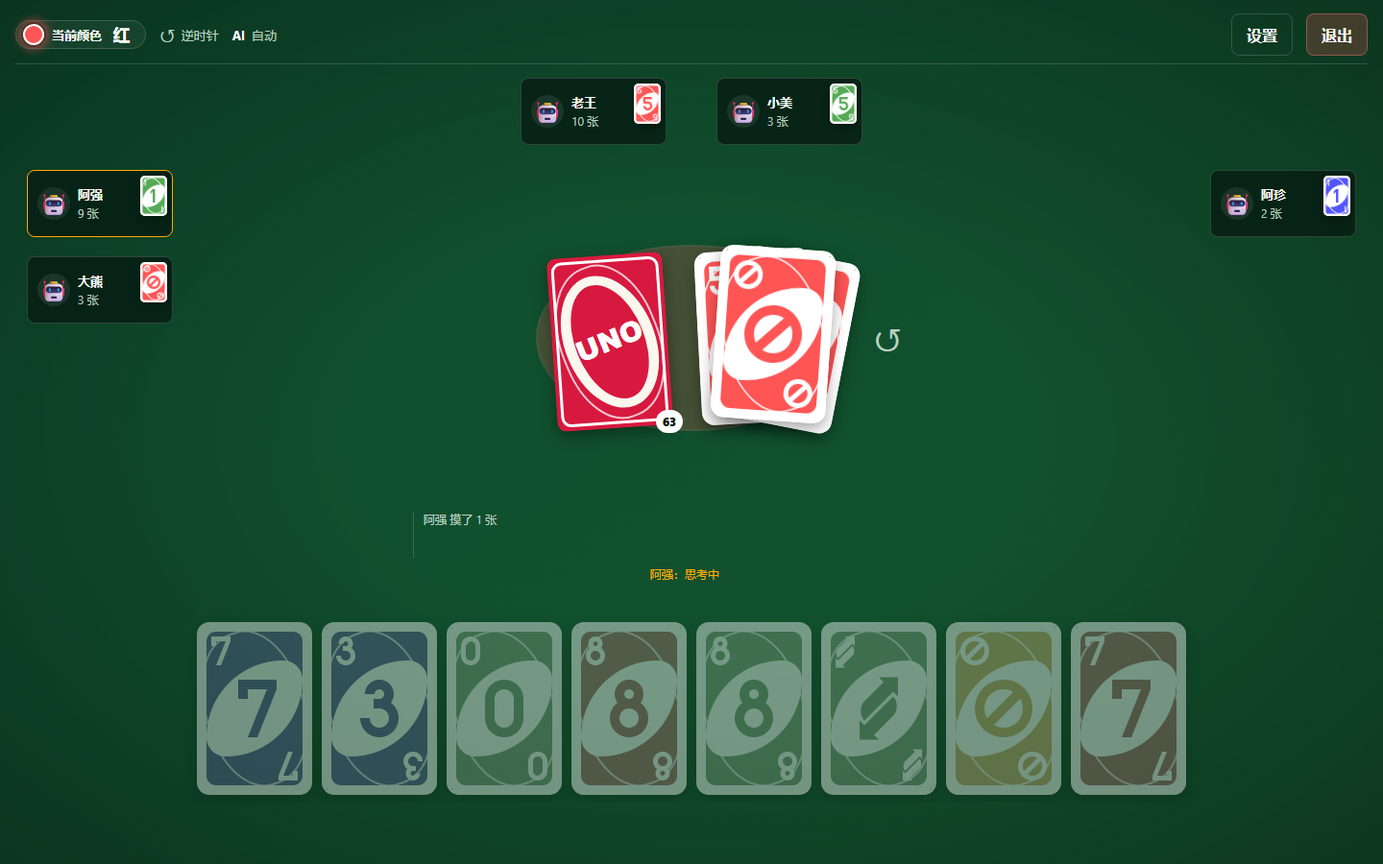
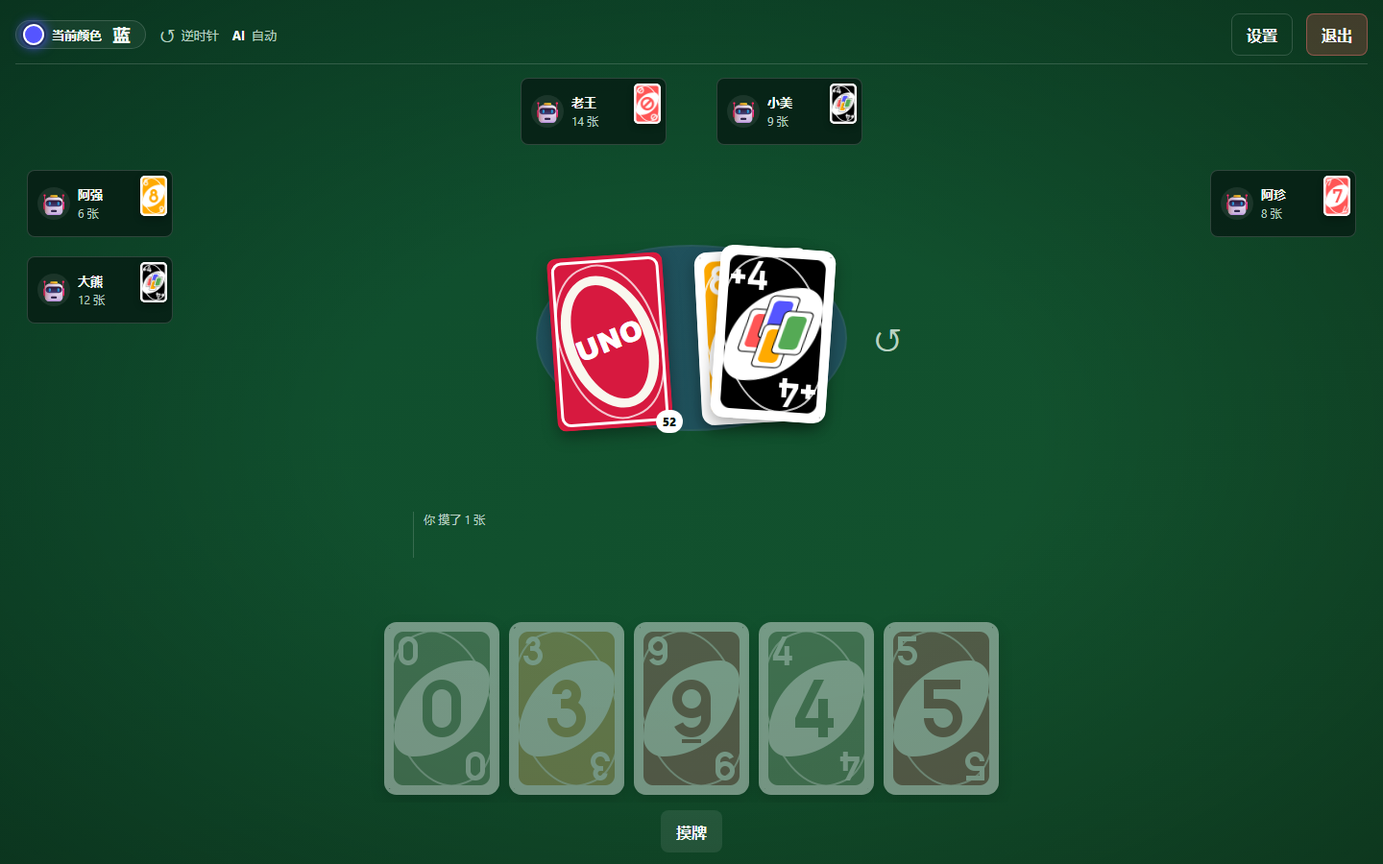
feat(M9-02): 联机多玩家座位框布局与逐视图动画队列

diff --git a/apps/web/js/net/onlineMode.js b/apps/web/js/net/onlineMode.js
@@ -8,6 +8,10 @@
  * - 对局阶段：不再本地 applyAction，改为把 UI 动作上行到服务端，
  *   渲染服务端按座位下发的 GameView（复用现有渲染层与事件动画）；
  * - 断线自动重连（最多 3 次），页面刷新后凭 sessionStorage 静默恢复。
+ *
+ * M9-02：服务端每个权威步骤都会广播一次视图（AI 补位、断线顶替同样如此）。
+ * 客户端把视图按到达顺序排队，逐条「渲染 + 播事件动画」；否则后一条视图的
+ * render 会立刻 cancelEvents，导致 AI 连续行动时只剩最后一步的动效可见。
  */
 import { toEngineAction } from "../vendor/uno-engine.js";
 import { getSettings } from "../state/settings.js";
@@ -25,6 +29,17 @@ let rejoinPending = false;
 let reconnectAttempts = 0;
 let reconnectTimer = null;
 const MAX_RECONNECT_ATTEMPTS = 3;
+
+/** M9-02：服务端视图队列（逐条渲染 + 播动画，保证 AI 连动/代打时每一步都可见） */
+let viewQueue = [];
+let processingView = false;
+let viewGeneration = 0;
+
+function resetViewQueue() {
+  viewGeneration += 1;
+  viewQueue = [];
+  processingView = false;
+}
 
 const $ = (selector) => document.querySelector(selector);
 
@@ -128,6 +143,7 @@ function renderRoom(room) {
 }
 
 function closeSocket() {
+  resetViewQueue();
   if (reconnectTimer) {
     clearTimeout(reconnectTimer);
     reconnectTimer = null;
@@ -161,7 +177,7 @@ function decorate(view) {
   return view;
 }
 
-/** 服务端下发视图：渲染 + 播事件动画（事件已按本座位脱敏） */
+/** 服务端下发视图：排队，逐条渲染 + 播事件动画（事件已按本座位脱敏） */
 function onView(view) {
   if (!inGame) {
     inGame = true;
@@ -169,13 +185,33 @@ function onView(view) {
     document.documentElement.style.setProperty("--uno-window-ms", "4000ms");
     window.UnoApp.setActionHandler(handleOnlineAction);
   }
-  const decorated = decorate(view);
-  window.UnoApp.render(decorated);
-  playEvents(decorated.events || []);
+  viewQueue.push(decorate(view));
+  processViewQueue();
+}
+
+/**
+ * 处理队首视图：渲染后用事件动画的完成回调驱动下一条。
+ * 动画期间（及队列未清空时）拒绝上行动作，避免基于过期画面操作。
+ */
+function processViewQueue() {
+  if (processingView) return;
+  const next = viewQueue.shift();
+  if (!next) return;
+  const generation = viewGeneration;
+  processingView = true;
+  window.UnoApp.render(next);
+  playEvents(next.events || [], () => {
+    if (generation !== viewGeneration) return;
+    processingView = false;
+    // 放到下一轮宏任务，给浏览器一次绘制机会，也避免无事件视图递归过深
+    if (viewQueue.length > 0) window.setTimeout(processViewQueue, 0);
+  });
 }
 
 function handleOnlineAction(action) {
   if (!action || typeof action.type !== "string") return;
+  // 视图还在播放/排队：画面不是最新权威状态，先不接受操作
+  if (processingView || viewQueue.length > 0) return;
   if (action.type === "BACK_TO_LOBBY") {
     exitOnline();
     return;

diff --git a/apps/web/js/ui/players.js b/apps/web/js/ui/players.js
@@ -1,4 +1,5 @@
 import { renderCard } from "./hand.js";
+import { setViewerSeat } from "../state/viewer.js";
 
 /**
  * BUG-04：AI 台词 TTL 到期时只清对应座位的气泡文本。
@@ -25,10 +26,18 @@ export function clearAllLines() {
 export function renderPlayers(view) {
   const root = document.querySelector("#opponents");
   const speechRoot = document.querySelector("#speech-layer");
-  const opponents = view.players.filter((player) => !player.isHuman);
+  // M9-02：以「视角座位」区分自己与对手，而不是 isHuman——联机模式下所有玩家
+  // 在服务端都是 isHuman=true，自己的座位由 view.human.seat 给出。
+  const viewer = view.human?.seat ?? 0;
+  setViewerSeat(viewer);
+  const total = view.players.length;
+  // 对手座位框按「相对视角座位的距离」套用 opponent-seat-N 布局类（单机 viewer=0 时与绝对座位一致），
+  // data-seat 仍保留真实座位号，供动效落点 / 挑战展示 / 台词气泡按座位查找。
+  const relativeSeat = (seat) => (seat - viewer + total) % Math.max(total, 1);
+  const opponents = view.players.filter((player) => player.seat !== viewer);
   root.dataset.count = String(opponents.length);
   root.replaceChildren(...opponents.map((player) => {
-    const node = document.createElement("article"); node.className = `opponent opponent-seat-${player.seat}${player.seat === view.currentSeat ? " is-current" : ""}`; node.dataset.seat = String(player.seat); node.setAttribute("aria-label", `${player.name}，${player.handCount} 张牌`);
+    const node = document.createElement("article"); node.className = `opponent opponent-seat-${relativeSeat(player.seat)}${player.seat === view.currentSeat ? " is-current" : ""}`; node.dataset.seat = String(player.seat); node.setAttribute("aria-label", `${player.name}，${player.handCount} 张牌`);
     const avatar = document.createElement("span"); avatar.className = "avatar"; avatar.textContent = player.avatar;
     const name = document.createElement("strong"); name.className = "opponent-name"; name.textContent = player.name;
     const meta = document.createElement("span"); meta.className = "opponent-meta"; meta.textContent = `${player.handCount} 张${player.saidUno ? " · UNO" : ""}`;

diff --git a/apps/web/js/animation/effects.js b/apps/web/js/animation/effects.js
@@ -1,5 +1,6 @@
 import { cardBack, renderCard } from "../ui/hand.js";
 import { getSettings } from "../state/settings.js";
+import { getViewerSeat } from "../state/viewer.js";
 
 /**
  * M6-01：事件动效（只动画 transform/opacity，纯 CSS/Web Animations，无第三方依赖）。
@@ -43,7 +44,8 @@ function centerOf(node) {
 }
 
 function seatAnchor(seat) {
-  if (Number(seat) === 0) return centerOf(document.querySelector("#hand"));
+  // M9-02：牌飞向「视角座位」= 自己的手牌区（单机恒为 0，联机为服务端分配的座位）
+  if (Number(seat) === getViewerSeat()) return centerOf(document.querySelector("#hand"));
   const node = document.querySelector(`#opponents .opponent[data-seat="${Number(seat)}"]`);
   return node ? centerOf(node) : centerOf(document.querySelector("#table-center"));
 }
@@ -244,7 +246,7 @@ export function applyEventEffect(event) {
       const seat = Number(event.seat);
       const target = seatAnchor(seat);
       const from = drawAnchor();
-      const visible = Math.max(1, Math.min(count, seat === 0 ? 7 : 3));
+      const visible = Math.max(1, Math.min(count, seat === getViewerSeat() ? 7 : 3));
       for (let index = 0; index < visible; index += 1) {
         flyCard(from, target, { faceDown: true, duration: 230, delay: index * 34 });
       }
@@ -266,7 +268,7 @@ export function applyEventEffect(event) {
       const seat = Number(event.seat);
       const target = seatAnchor(seat);
       const from = drawAnchor();
-      const faceUp = seat === 0 && Array.isArray(event.cards) && event.cards.length > 0;
+      const faceUp = seat === getViewerSeat() && Array.isArray(event.cards) && event.cards.length > 0;
       const cards = faceUp ? event.cards : null;
       const visible = Math.max(1, Math.min(count, faceUp ? 6 : 5));
       for (let index = 0; index < visible; index += 1) {

diff --git a/apps/web/js/animation/queue.js b/apps/web/js/animation/queue.js
@@ -1,6 +1,7 @@
 import { applyEventEffect, cleanupEffects, motionFactor } from "./effects.js";
 import { playSfxForEvent } from "../audio/sfx.js";
 import { hideChallengeHand, showChallengeHand, showOpponentLookedNotice } from "../ui/challengeReveal.js";
+import { getViewerSeat } from "../state/viewer.js";
 
 /** M5-01：挑战成功展示对方手牌的时长（2~3 秒，展示期间保持输入锁） */
 const CHALLENGE_REVEAL_MS = 2600;
@@ -23,9 +24,9 @@ function isChallengeHandEvent(event) {
   return event?.type === "CHALLENGE_SUCCESS" && Array.isArray(event.hand);
 }
 
-/** AI 挑战人类成功：只提示，不展示牌面（M5-01） */
+/** AI（或联机中的其他玩家）挑战「我」成功：只提示，不展示牌面（M5-01；M9-02 改为按视角座位判断） */
 function isAiLookedEvent(event) {
-  return event?.type === "CHALLENGE_SUCCESS" && !Array.isArray(event.hand) && event.target === 0;
+  return event?.type === "CHALLENGE_SUCCESS" && !Array.isArray(event.hand) && event.target === getViewerSeat();
 }
 
 /** 清理当前播放的定时器与临时禁用状态（不触发完成回调） */

diff --git a/apps/web/js/audio/sfx.js b/apps/web/js/audio/sfx.js
@@ -1,4 +1,5 @@
 import { getSettings } from "../state/settings.js";
+import { getViewerSeat } from "../state/viewer.js";
 
 /**
  * M6-02：音效（Web Audio 合成，零外部音频资源、无第三方依赖）。
@@ -211,7 +212,7 @@ export function playSfxForEvent(event) {
       return playSfx("out");
     case "ROUND_END":
       if (event.winnerSeat === null || event.winnerSeat === undefined) return playSfx("drawGame");
-      return playSfx(Number(event.winnerSeat) === 0 ? "win" : "lose");
+      return playSfx(Number(event.winnerSeat) === getViewerSeat() ? "win" : "lose");
     case "PILE_RESHUFFLE":
       return playSfx("shuffle");
     default:

diff --git a/apps/web/js/state/viewer.js b/apps/web/js/state/viewer.js
@@ -1,0 +1,17 @@
+/**
+ * M9-02：当前客户端的「视角座位」。
+ *
+ * 单机模式人类固定 0 号位，此前 UI/动效层多处硬编码 seat === 0 表示「我」；
+ * 联机模式座位由服务端分配（可以是任意座位），因此集中在这里维护：
+ * 每次渲染游戏画面时由 ui/players.js 用 view.human.seat 更新，
+ * 动效（飞牌落点/正面朝上）、音效（胜/负）、挑战提示统一从这里读取。
+ */
+let viewerSeat = 0;
+
+export function setViewerSeat(seat) {
+  viewerSeat = Number.isInteger(seat) && seat >= 0 ? seat : 0;
+}
+
+export function getViewerSeat() {
+  return viewerSeat;
+}

diff --git a/apps/web/js/ui/challengeReveal.js b/apps/web/js/ui/challengeReveal.js
@@ -1,4 +1,5 @@
 import { renderCard } from "./hand.js";
+import { getViewerSeat } from "../state/viewer.js";
 
 /**
  * M5-01：挑战时手牌展示。
@@ -17,7 +18,7 @@ function seatName(seat) {
   const opponent = document.querySelector(`#opponents .opponent[data-seat="${seat}"] .opponent-name`);
   const text = opponent?.textContent?.trim() || "";
   if (text) return text;
-  return seat === 0 ? "你" : "对手";
+  return seat === getViewerSeat() ? "你" : "对手";
 }
 
 /** 显示人类挑战 AI 成功后的对方手牌（覆盖牌桌，不可交互） */

diff --git a/review-assets/ui-m32-verify.md b/review-assets/ui-m32-verify.md
@@ -1,6 +1,6 @@
 # 浏览器验收报告（自动生成；M3-3/M4 回归 + M5 规则边界）
 
-> 时间：2026-10-20T05:15:57.837Z ｜ 入口：http://localhost:3000 ｜ 浏览器：Chrome/155.0.8059.82
+> 时间：2026-10-20T05:59:43.850Z ｜ 入口：http://localhost:3000 ｜ 浏览器：Chrome/155.0.8059.82
 > 结果：**103 / 103 通过**
 
 ## 检查项
@@ -15,45 +15,45 @@
 | ✅ | 抽牌堆计数在 HUD 正确显示（文本与 data-count 一致） | {"text":"79","dataCount":"79"} |
 | ✅ | 1440 宽无横向溢出 | {"scroll":1440,"client":1440} |
 | ✅ | 手牌区不再显示「你的手牌 / N 张」 | {"heading":false,"count":false,"text":""} |
-| ✅ | 操作栏不再有出牌按钮（出牌改为点击手牌） | [{"text":"放弃叠牌（摸 2 张）","disabled":false}] |
-| ✅ | 正常回合无冗余状态提示文字 | hint=上家出了叠牌，选择继续叠加或摸 2 张 |
+| ✅ | 操作栏不再有出牌按钮（出牌改为点击手牌） | [{"text":"摸牌","disabled":false}] |
+| ✅ | 正常回合无冗余状态提示文字 | hint= |
 | ✅ | 当前颜色明显放大（色点 ≥20px、文字 ≥17px、不溢出） | {"dotW":22,"dotH":22,"labelFont":18,"labelRect":{"top":24,"right":139},"viewportW":1440,"topBarOverflow":false,"pageOverflow":false} |
-| ✅ | 第 1 局完整打完并进入结算（🏆 阿强 获胜） | ["你8 张","老王UNO1 张","小美3 张","阿强0 张 · 出完手牌"] |
+| ✅ | 第 1 局完整打完并进入结算（🏆 小美 获胜） | ["你7 张","老王18 张","小美0 张 · 出完手牌","阿强7 张"] |
 | ✅ | 第 1 局：再来一局 / 退出回大厅可用 |  |
-| ✅ | 第 2 局完整打完并进入结算（🏆 老王 获胜） | ["你9 张","老王0 张 · 出完手牌","小美3 张","阿强7 张"] |
+| ✅ | 第 2 局完整打完并进入结算（🏆 你 获胜） | ["你0 张 · 出完手牌","老王3 张","小美5 张","阿强11 张"] |
 | ✅ | 第 2 局：再来一局 / 退出回大厅可用 |  |
-| ✅ | 第 3 局完整打完并进入结算（🏆 老王 获胜） | ["你8 张","老王0 张 · 出完手牌"] |
+| ✅ | 第 3 局完整打完并进入结算（🏆 老王 获胜） | ["你13 张","老王0 张 · 出完手牌"] |
 | ✅ | 第 3 局：再来一局 / 退出回大厅可用 |  |
-| ✅ | 本地战绩：打完 3 局后写入 uno:stats（对局 +3、获胜数合法） | {"before":{},"after":{"games":3,"wins":0}} |
-| ✅ | 本地战绩弹窗：显示已记录的对局/获胜数 | ×本地战绩对局 3 · 获胜 0知道了 |
+| ✅ | 本地战绩：打完 3 局后写入 uno:stats（对局 +3、获胜数合法） | {"before":{},"after":{"games":3,"wins":1}} |
+| ✅ | 本地战绩弹窗：显示已记录的对局/获胜数 | ×本地战绩对局 3 · 获胜 1知道了 |
 | ✅ | 6 人：真实对局 AI 座位数正确（5 个） | seats=5 |
 | ✅ | 6 人：座位全部在视口内、互不遮挡 | {"inside":true,"overlaps":[]} |
 | ✅ | 6 人：座位不压手牌区、页面无横向溢出/竖向滚动 | {"overlapHand":[],"overflow":{"scrollW":1440,"clientW":1440,"scrollH":900,"clientH":900}} |
-| ✅ | 6 人：抽牌堆计数与 HUD 一致 | count=50 hud=50 |
-| ✅ | 6 人：轮转正常（自动行动座位 ≥2 个） | {"steps":40,"seats":[5,3,1,2,4,0],"elapsed":2671,"screen":"game"} |
+| ✅ | 6 人：抽牌堆计数与 HUD 一致 | count=65 hud=65 |
+| ✅ | 6 人：轮转正常（自动行动座位 ≥2 个） | {"steps":40,"seats":[1,4,5,2,0,3],"elapsed":2489,"screen":"game"} |
 | ✅ | 10 人：真实对局 AI 座位数正确（9 个） | seats=9 |
 | ✅ | 10 人：座位全部在视口内、互不遮挡 | {"inside":true,"overlaps":[]} |
 | ✅ | 10 人：座位不压手牌区、页面无横向溢出/竖向滚动 | {"overlapHand":[],"overflow":{"scrollW":1440,"clientW":1440,"scrollH":900,"clientH":900}} |
-| ✅ | 10 人：抽牌堆计数与 HUD 一致 | count=29 hud=29 |
-| ✅ | 10 人：轮转正常（自动行动座位 ≥2 个） | {"steps":40,"seats":[1,3,6,8,2,0,9,7,5,4],"elapsed":2653,"screen":"game"} |
-| ✅ | 10 人 @1024：座位全部在视口内、互不遮挡、无横向溢出 | {"seats":9,"inside":true,"overlaps":[],"overflow":{"scrollW":1024,"clientW":1024,"scrollH":768,"clientH":768}} |
-| ✅ | 结算页已取消分数计算与展示（无「趣味分数 / 本局得分」文字） | [["你8 张","老王UNO1 张","小美3 张","阿强0 张 · 出完手牌"],["你9 张","老王0 张 · 出完手牌","小美3 张","阿强7 张"],["你8 张","老王0 张 · 出完手牌"]] |
+| ✅ | 10 人：抽牌堆计数与 HUD 一致 | count=35 hud=35 |
+| ✅ | 10 人：轮转正常（自动行动座位 ≥2 个） | {"steps":26,"seats":[0,1,6,8,4,5,7,3,9,2],"elapsed":1625,"screen":"result"} |
+| ✅ | 10 人 @1024：座位全部在视口内、互不遮挡、无横向溢出 | {"seats":9,"inside":true,"overlaps":[],"overflow":{"scrollW":1024,"clientW":1024,"scrollH":769,"clientH":768}} |
+| ✅ | 结算页已取消分数计算与展示（无「趣味分数 / 本局得分」文字） | [["你7 张","老王18 张","小美0 张 · 出完手牌","阿强7 张"],["你0 张 · 出完手牌","老王3 张","小美5 张","阿强11 张"],["你13 张","老王0 张 · 出完手牌"]] |
 | ✅ | 结算页图表齐全（每位玩家操作 / 全体动作构成 / 剩余手牌构成 + 总览数字） | [{"charts":3,"ops":4,"hands":4,"summary":6},{"charts":3,"ops":4,"hands":4,"summary":6},{"charts":3,"ops":2,"hands":2,"summary":6}] |
-| ✅ | 每位玩家操作统计与总览合计一致（出牌/摸牌/叠牌/喊UNO/挑战） | [{"summary":{"动作":76,"出牌":51,"摸牌":35,"叠牌":6,"喊 UNO":3,"挑战":0},"players":[{"seat":0,"metrics":{"plays":11,"draws":12,"stackPlays":2,"unoCalls":0,"challenges":0}},{"seat":1,"metrics":{"plays":12,"draws":6,"stackPlays":1,"unoCalls":2,"challenges":0}},{"seat":2,"metrics":{"plays":15,"draws":11,"stackPlays":2,"unoCalls":0,"challenges":0}},{"seat":3,"metrics":{"plays":13,"draws":6,"stackPlays":1,"unoCalls":1,"challenges":0}}]},{"summary":{"动作":46,"出牌":31,"摸牌":22,"叠牌":4,"喊 UNO":1,"挑战":0},"players":[{"seat":0,"metrics":{"plays":8,"draws":10,"stackPlays":1,"unoCalls":0,"challenges":0}},{"seat":1,"metrics":{"plays":9,"draws":2,"stackPlays":2,"unoCalls":1,"challenges":0}},{"seat":2,"metrics":{"plays":8,"draws":4,"stackPlays":1,"unoCalls":0,"challenges":0}},{"seat":3,"metrics":{"plays":6,"draws":6,"stackPlays":0,"unoCalls":0,"challenges":0}}]},{"summary":{"动作":137,"出牌":82,"摸牌":76,"叠牌":12,"喊 UNO":2,"挑战":1},"players":[{"seat":0,"metrics":{"plays":46,"draws":47,"stackPlays":8,"unoCalls":0,"challenges":0}},{"seat":1,"metrics":{"plays":36,"draws":29,"stackPlays":4,"unoCalls":2,"challenges":1}}]}] |
-| ✅ | 全体操作构成环形图数据自洽（各部分之和 = 五项操作合计） | [{"plays":51,"draws":35,"stackPlays":6,"unoCalls":3,"challenges":0},{"plays":31,"draws":22,"stackPlays":4,"unoCalls":1,"challenges":0},{"plays":82,"draws":76,"stackPlays":12,"unoCalls":2,"challenges":1}] |
-| ✅ | 剩余手牌构成图表与结算行剩余张数一致 | [{"rows":[{"seat":0,"cards":8,"shownCount":8,"isWinnerRow":false,"text":"你8 张"},{"seat":1,"cards":1,"shownCount":1,"isWinnerRow":false,"text":"老王UNO1 张"},{"seat":2,"cards":3,"shownCount":3,"isWinnerRow":false,"text":"小美3 张"},{"seat":3,"cards":0,"shownCount":0,"isWinnerRow":true,"text":"阿强0 张 · 出完手牌"}],"hands":[{"seat":0,"colors":{"red":3,"yellow":0,"green":2,"blue":3,"wild":0}},{"seat":1,"colors":{"red":0,"yellow":0,"green":1,"blue":0,"wild":0}},{"seat":2,"colors":{"red":0,"yellow":0,"green":2,"blue":1,"wild":0}},{"seat":3,"colors":{"red":0,"yellow":0,"green":0,"blue":0,"wild":0}}]},{"rows":[{"seat":0,"cards":9,"shownCount":9,"isWinnerRow":false,"text":"你9 张"},{"seat":1,"cards":0,"shownCount":0,"isWinnerRow":true,"text":"老王0 张 · 出完手牌"},{"seat":2,"cards":3,"shownCount":3,"isWinnerRow":false,"text":"小美3 张"},{"seat":3,"cards":7,"shownCount":7,"isWinnerRow":false,"text":"阿强7 张"}],"hands":[{"seat":0,"colors":{"red":3,"yellow":3,"green":0,"blue":3,"wild":0}},{"seat":1,"colors":{"red":0,"yellow":0,"green":0,"blue":0,"wild":0}},{"seat":2,"colors":{"red":1,"yellow":2,"green":0,"blue":0,"wild":0}},{"seat":3,"colors":{"red":1,"yellow":2,"green":1,"blue":3,"wild":0}}]},{"rows":[{"seat":0,"cards":8,"shownCount":8,"isWinnerRow":false,"text":"你8 张"},{"seat":1,"cards":0,"shownCount":0,"isWinnerRow":true,"text":"老王0 张 · 出完手牌"}],"hands":[{"seat":0,"colors":{"red":3,"yellow":1,"green":3,"blue":1,"wild":0}},{"seat":1,"colors":{"red":0,"yellow":0,"green":0,"blue":0,"wild":0}}]}] |
-| ✅ | 结算页赢家行标注「出完手牌 / 手牌最少获胜」 | [["你8 张","老王UNO1 张","小美3 张","阿强0 张 · 出完手牌"],["你9 张","老王0 张 · 出完手牌","小美3 张","阿强7 张"],["你8 张","老王0 张 · 出完手牌"]] |
-| ✅ | 出牌通过点击手牌完成（操作栏无出牌按钮） | cardClicks=65 |
+| ✅ | 每位玩家操作统计与总览合计一致（出牌/摸牌/叠牌/喊UNO/挑战） | [{"summary":{"动作":90,"出牌":51,"摸牌":55,"叠牌":8,"喊 UNO":4,"挑战":2},"players":[{"seat":0,"metrics":{"plays":15,"draws":15,"stackPlays":2,"unoCalls":1,"challenges":0}},{"seat":1,"metrics":{"plays":12,"draws":23,"stackPlays":1,"unoCalls":0,"challenges":1}},{"seat":2,"metrics":{"plays":14,"draws":7,"stackPlays":4,"unoCalls":3,"challenges":0}},{"seat":3,"metrics":{"plays":10,"draws":10,"stackPlays":1,"unoCalls":0,"challenges":1}}]},{"summary":{"动作":465,"出牌":274,"摸牌":265,"叠牌":38,"喊 UNO":7,"挑战":5},"players":[{"seat":0,"metrics":{"plays":78,"draws":71,"stackPlays":12,"unoCalls":2,"challenges":0}},{"seat":1,"metrics":{"plays":67,"draws":63,"stackPlays":5,"unoCalls":2,"challenges":3}},{"seat":2,"metrics":{"plays":70,"draws":68,"stackPlays":12,"unoCalls":2,"challenges":0}},{"seat":3,"metrics":{"plays":59,"draws":63,"stackPlays":9,"unoCalls":1,"challenges":2}}]},{"summary":{"动作":81,"出牌":47,"摸牌":46,"叠牌":6,"喊 UNO":1,"挑战":1},"players":[{"seat":0,"metrics":{"plays":23,"draws":29,"stackPlays":2,"unoCalls":0,"challenges":1}},{"seat":1,"metrics":{"plays":24,"draws":17,"stackPlays":4,"unoCalls":1,"challenges":0}}]}] |
+| ✅ | 全体操作构成环形图数据自洽（各部分之和 = 五项操作合计） | [{"plays":51,"draws":55,"stackPlays":8,"unoCalls":4,"challenges":2},{"plays":274,"draws":265,"stackPlays":38,"unoCalls":7,"challenges":5},{"plays":47,"draws":46,"stackPlays":6,"unoCalls":1,"challenges":1}] |
+| ✅ | 剩余手牌构成图表与结算行剩余张数一致 | [{"rows":[{"seat":0,"cards":7,"shownCount":7,"isWinnerRow":false,"text":"你7 张"},{"seat":1,"cards":18,"shownCount":18,"isWinnerRow":false,"text":"老王18 张"},{"seat":2,"cards":0,"shownCount":0,"isWinnerRow":true,"text":"小美0 张 · 出完手牌"},{"seat":3,"cards":7,"shownCount":7,"isWinnerRow":false,"text":"阿强7 张"}],"hands":[{"seat":0,"colors":{"red":3,"yellow":0,"green":0,"blue":4,"wild":0}},{"seat":1,"colors":{"red":3,"yellow":7,"green":4,"blue":4,"wild":0}},{"seat":2,"colors":{"red":0,"yellow":0,"green":0,"blue":0,"wild":0}},{"seat":3,"colors":{"red":2,"yellow":1,"green":2,"blue":2,"wild":0}}]},{"rows":[{"seat":0,"cards":0,"shownCount":0,"isWinnerRow":true,"text":"你0 张 · 出完手牌"},{"seat":1,"cards":3,"shownCount":3,"isWinnerRow":false,"text":"老王3 张"},{"seat":2,"cards":5,"shownCount":5,"isWinnerRow":false,"text":"小美5 张"},{"seat":3,"cards":11,"shownCount":11,"isWinnerRow":false,"text":"阿强11 张"}],"hands":[{"seat":0,"colors":{"red":0,"yellow":0,"green":0,"blue":0,"wild":0}},{"seat":1,"colors":{"red":1,"yellow":2,"green":0,"blue":0,"wild":0}},{"seat":2,"colors":{"red":3,"yellow":0,"green":0,"blue":2,"wild":0}},{"seat":3,"colors":{"red":2,"yellow":3,"green":2,"blue":4,"wild":0}}]},{"rows":[{"seat":0,"cards":13,"shownCount":13,"isWinnerRow":false,"text":"你13 张"},{"seat":1,"cards":0,"shownCount":0,"isWinnerRow":true,"text":"老王0 张 · 出完手牌"}],"hands":[{"seat":0,"colors":{"red":2,"yellow":2,"green":6,"blue":3,"wild":0}},{"seat":1,"colors":{"red":0,"yellow":0,"green":0,"blue":0,"wild":0}}]}] |
+| ✅ | 结算页赢家行标注「出完手牌 / 手牌最少获胜」 | [["你7 张","老王18 张","小美0 张 · 出完手牌","阿强7 张"],["你0 张 · 出完手牌","老王3 张","小美5 张","阿强11 张"],["你13 张","老王0 张 · 出完手牌"]] |
+| ✅ | 出牌通过点击手牌完成（操作栏无出牌按钮） | cardClicks=116 |
 | ✅ | 摸牌按钮文案为「摸牌」（BUG-01 新规则：摸到可出为止） | sawDrawLabel=true |
-| ✅ | 引擎事件覆盖：出牌/摸牌/回合结束 | {"DEAL":46,"START_CARD":9,"PLAY":347,"REVERSE":37,"STACK_PUSH":57,"STACK_RESOLVE":26,"DRAW":184,"COLOR_SET":37,"SKIP":35,"UNO_CALLED":8,"PLAYER_OUT":3,"ROUND_END":3,"CHALLENGE_SUCCESS":4,"PILE_RESHUFFLE":3,"CHALLENGE_FAIL":4} |
-| ✅ | 引擎事件包含叠牌/挑战/UNO 路径（随机对局统计） | {"DEAL":46,"START_CARD":9,"PLAY":347,"REVERSE":37,"STACK_PUSH":57,"STACK_RESOLVE":26,"DRAW":184,"COLOR_SET":37,"SKIP":35,"UNO_CALLED":8,"PLAYER_OUT":3,"ROUND_END":3,"CHALLENGE_SUCCESS":4,"PILE_RESHUFFLE":3,"CHALLENGE_FAIL":4} |
+| ✅ | 引擎事件覆盖：出牌/摸牌/回合结束 | {"DEAL":46,"START_CARD":9,"PLAY":503,"REVERSE":38,"SKIP":52,"DRAW":323,"COLOR_SET":56,"STACK_PUSH":78,"STACK_RESOLVE":35,"UNO_CALLED":14,"CHALLENGE_FAIL":10,"PLAYER_OUT":4,"ROUND_END":4,"CHALLENGE_SUCCESS":3,"PILE_RESHUFFLE":5} |
+| ✅ | 引擎事件包含叠牌/挑战/UNO 路径（随机对局统计） | {"DEAL":46,"START_CARD":9,"PLAY":503,"REVERSE":38,"SKIP":52,"DRAW":323,"COLOR_SET":56,"STACK_PUSH":78,"STACK_RESOLVE":35,"UNO_CALLED":14,"CHALLENGE_FAIL":10,"PLAYER_OUT":4,"ROUND_END":4,"CHALLENGE_SUCCESS":3,"PILE_RESHUFFLE":5} |
 | ✅ | 引擎模式：事件播放期间出现 aria-busy 输入锁 | busy 记录 13 次 |
 | ✅ | 引擎模式：动画期间操作按钮被禁用 | {"actionDisabled":0,"handDisabled":7,"busyAttr":"true"} |
 | ✅ | 引擎模式：AI 回合显示「思考中」气泡 | thinking 出现动画名=dots |
 | ✅ | 引擎模式：动画结束后 aria-busy 解除 |  |
 | ✅ | M4 智谱在线成功：状态栏显示「智谱」 | indicator=智谱 |
-| ✅ | M4 智谱台词：AI 气泡展示 LLM line | line=小美：“看我的” |
-| ✅ | AI 台词只短暂展示：TTL/换人后自动消失（不跨回合残留） | line=小美：“看我的” clearAfter=5492ms |
+| ✅ | M4 智谱台词：AI 气泡展示 LLM line | line=阿强：“看我的” |
+| ✅ | AI 台词只短暂展示：TTL/换人后自动消失（不跨回合残留） | line=阿强：“看我的” clearAfter=3953ms |
 | ✅ | 回大厅后 AI 台词清空（不留对话/不跨局残留） | [] |
 | ✅ | M4 智谱失败自动降级：状态栏显示「本地·降级」+ 提示 toast | degradeSeen=true toast=智谱免费模型繁忙，已自动降级本地 AI |
 | ✅ | M4 降级后本地 AI 继续行动（对局不中断） | eventFeedChanged=true |
@@ -61,23 +61,23 @@
 | ✅ | mock 牌桌：手牌区无「你的手牌 / N 张」 | {"heading":false,"count":false,"text":""} |
 | ✅ | mock 牌桌：操作栏只剩功能按钮（无出牌按钮） | [{"text":"摸牌","disabled":false}] |
 | ✅ | mock 牌桌：正常回合无冗余提示文字 | hint= |
-| ✅ | 事件队列逐条播放（5 事件 = 200ms/条基础 + 动效时长） | elapsed=1358ms |
+| ✅ | 事件队列逐条播放（5 事件 = 200ms/条基础 + 动效时长） | elapsed=1345ms |
 | ✅ | 事件队列期间 aria-busy=true 且操作按钮禁用 | {"busy":true,"disabled":1} |
 | ✅ | 事件队列结束后 aria-busy / aria-disabled 清理 | {"busy":null,"actionBarDisabled":null} |
-| ✅ | 事件动效：飞牌/横幅等临时元素由动效层创建（至少 2 个同时动画） | {"maxCards":2,"maxLayer":2,"lastEffect":"PILE_RESHUFFLE","elapsed":2066,"layer":0,"busy":null} |
+| ✅ | 事件动效：飞牌/横幅等临时元素由动效层创建（至少 2 个同时动画） | {"maxCards":2,"maxLayer":2,"lastEffect":"PILE_RESHUFFLE","elapsed":2054,"layer":0,"busy":null} |
 | ✅ | 事件动效：队列结束后动效层清理干净、输入锁解除 | {"layer":0,"busy":null} |
-| ✅ | 事件动效：6 个事件总时长合理（约 0.6~3s） | elapsed=2066ms |
+| ✅ | 事件动效：6 个事件总时长合理（约 0.6~3s） | elapsed=2054ms |
 | ✅ | dev 工具条「重播动画」触发动效（mock 局面） | {"layer":1,"lastEffect":"PLAY"} |
 | ✅ | 结算彩带：获胜后全屏彩带出现（≥10 个同屏）且从屏幕顶部开始飘落 | {"count":24,"max":24,"minTop":-24} |
 | ✅ | 结算彩带：事件队列结束后彩带继续自然飘落（不被提前清空） | count=24 |
 | ✅ | 结算彩带：完整飘到屏幕底部后自动清理 | count=0 |
-| ✅ | reduced-motion 下跳过动画与事件动效（<100ms 完成） | elapsed=1ms |
+| ✅ | reduced-motion 下跳过动画与事件动效（<100ms 完成） | elapsed=0ms |
 | ✅ | 设置关闭动画后跳过动画与事件动效（<100ms） | elapsed=1ms |
 | ✅ | 音效：音效开启时事件触发合成音效（3 个事件 ≥3 次） | {"before":0,"after":3,"audio":"running","soundVolume":0.7} |
 | ✅ | 音效：首次用户交互后 AudioContext 可用（autoplay 解锁） | audio=running |
 | ✅ | 音效：设置关闭后不再播放 | {"before":0,"after":0} |
 | ✅ | 挑战手牌展示：人类挑战 AI 成功时展示对方完整手牌 | {"count":5,"title":"挑战成功：查看 老王 的手牌"} |
-| ✅ | 挑战手牌展示：约 2~3 秒后自动消失 | {"elapsed":2600,"visible":false} |
+| ✅ | 挑战手牌展示：约 2~3 秒后自动消失 | {"elapsed":2607,"visible":false} |
 | ✅ | 挑战手牌展示：展示期间输入锁定（aria-busy） | busy=true |
 | ✅ | 挑战：AI 挑战人类只提示「查看了你的手牌」且不展示手牌 | {"toast":"老王 查看了你的手牌","overlayHidden":true} |
 | ✅ | 设置页：规则 4 项 + 音效音量/动画速度可配置且默认值正确 | {"twoPlayerRules":true,"unoPenalty":"2","deckExhaustion":"reshuffle","startCardRule":"classic","soundVolume":"0.7","animationSpeed":"normal","hasRulesHeading":true} |
@@ -115,26 +115,26 @@
 
 | 事件 | 次数 |
 |------|------|
-| PLAY | 347 |
-| DRAW | 184 |
-| STACK_PUSH | 57 |
+| PLAY | 503 |
+| DRAW | 323 |
+| STACK_PUSH | 78 |
+| COLOR_SET | 56 |
+| SKIP | 52 |
 | DEAL | 48 |
-| REVERSE | 37 |
-| COLOR_SET | 37 |
-| SKIP | 35 |
-| STACK_RESOLVE | 26 |
+| REVERSE | 38 |
+| STACK_RESOLVE | 35 |
+| UNO_CALLED | 14 |
 | START_CARD | 10 |
-| UNO_CALLED | 8 |
-| CHALLENGE_SUCCESS | 4 |
-| CHALLENGE_FAIL | 4 |
-| PLAYER_OUT | 3 |
-| ROUND_END | 3 |
-| PILE_RESHUFFLE | 3 |
+| CHALLENGE_FAIL | 10 |
+| PILE_RESHUFFLE | 5 |
+| PLAYER_OUT | 4 |
+| ROUND_END | 4 |
+| CHALLENGE_SUCCESS | 3 |
 
 ## 对局结算摘要
 
-- 第 1 局：🏆 阿强 获胜
-- 第 2 局：🏆 老王 获胜
+- 第 1 局：🏆 小美 获胜
+- 第 2 局：🏆 你 获胜
 - 第 3 局：🏆 老王 获胜
 
 ## 截图

diff --git a/docs/交接文档-2026-10-20.md b/docs/交接文档-2026-10-20.md
@@ -39,7 +39,30 @@
 ## 5. 新对话提示词（直接粘贴给下一段对话）
 
 ```
-继续 UNO 项目（C:\Users\hw\Desktop\uno）的 M9 开发。先读 docs/交接文档-2026-10-20.md 和 docs/开发进度.md 了解现状：v1.1 已发布（M8 局域网联机全部完成 + M9-01 UNO 窗口按钮按座位过滤），质量基线 303 用例 / verify:ui 103 全绿。
+你是「UNO 本地网页游戏」项目的接续开发工程师。项目在 C:\Users\hw\Desktop\uno（Windows，Node 26.7 / npm 11，依赖已安装，git 仓库已配 remote origin = github.com/shark-syh/uno-personal-game，tag 已推 v1.0 / v1.1）。
 
-本轮任务：按 docs/开发计划.md §8.2「M9」推进 M9-02（联机多玩家布局对齐单机 + 摸牌动画牌飞向对应玩家）。开工前先用 AskUserQuestion 跟我定稿 M9 的 4 个决策点（计划 §8.2 表格里的：表情素材形态 / 展示位置 / 限频口径 / 单机是否加表情——其中 ①②④ 与 M9-02 布局强相关，先问）。遵守 docs/开发约定.md：每模块完成即停、四段式汇报、改 packages/game-core|ai 后必须 npm run build:web-engine 并重启服务、测试设 TEMP/TMP 到 logs/tmp、红线硬约定见开发进度.md §2。
+开始前按顺序读：
+1. docs/交接文档-2026-10-20.md（交接：当前状态、M9 范围、关键坑位、本提示词）
+2. docs/开发约定.md（每模块完成即停；四段式汇报）
+3. docs/开发进度.md（§2 红线硬约定、§4 M8 记录、§5 M9 记录）
+4. docs/开发计划.md（§8.2 M9 里程碑定义：M9-01~04 验收口径与 4 个待决策点）
+
+当前状态：v1.1 已发布并推送远端（commit 009ec16 + annotated tag v1.1）——M0~M8 全部完成（局域网联机：房间码、改名、AI 补位、断线重连、再来一局、按座位信息隔离）+ M9-01 修复（UNO 窗口按钮按座位过滤：喊只给窗口主人、抓只给其他人）。质量基线：npm test 27 文件 / 303 用例全过、typecheck/lint 0 错误、npm run verify:ui 103/103。服务可能在 http://localhost:3000 运行（未运行则 npm start 或双击 启动服务.bat）。智谱 Key 在根 .env（真实 Key，禁止打印/复制/提交）。
+
+本轮任务：M9 联机体验打磨与表情包互动，按开发计划 §8.2 顺序推进 M9-02 → M9-03 → M9-04：
+1) M9-02 联机多玩家布局对齐单机：恢复单机 AI 局的多玩家框形态（每对手一个座位框：头像/名字/牌数/回合高亮/最近出牌）；摸牌动画牌飞向对应摸牌玩家（含 AI 代打与断线顶替的广播事件）。落点预计 apps/web/js/net/onlineMode.js 渲染路径，尽量复用单机渲染层与事件动画。
+2) M9-03 表情包互怼：服务端 emote 消息（座位校验 + 每座位限频）→ 房间广播；客户端座位框气泡短时效展示；素材本地预置（emoji + 梗图两档），不做自定义上传/持久化/文字聊天。
+3) M9-04 验证收尾：多客户端 E2E 补（窗口按钮按座位、emote 广播限频、布局 DOM 断言）+ verify:ui 零回归 + README/CHANGELOG 更新 + 打 tag。
+
+工作规则（重要）：
+- 开工前先用 AskUserQuestion 跟用户定稿 M9 的 4 个决策点（计划 §8.2 表格）：① 表情素材形态（纯 emoji / emoji+本地梗图包）；② 展示位置（座位框气泡 / 桌面中央弹幕）；③ 限频口径（1 条/2s / 5 条/10s）；④ 单机是否也加表情（AI 回表情 / 只联机）。其中 ①②④ 与 M9-02 布局强相关，先问再动手。
+- 每模块完成即停，按四段式汇报，等用户确认后再开下一模块。
+- 改 packages/game-core 或 packages/ai 后必须 npm run build:web-engine，并重启服务进程（tsx 非 watch，服务端引擎在内存里）。
+- 本机跑测试先设 TEMP/TMP 到 logs/tmp；vitest 默认超时 5000ms，WS 集成测试记得显式加 { timeout }。
+- 不打印/提交 API Key；大范围改动前先确认 git 基线可回滚。
+
+请先：
+1) 跑一次 npm test 确认 27 文件 / 303 用例通过、服务/页面可用；
+2) 用 3~5 行向用户复述「M9-02~04 任务 + 4 个待决策点 + 推进顺序」；
+3) 用户确认决策点后按上述顺序开发；每模块完成，四段式汇报并停手。
 ```
